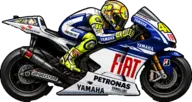
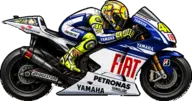
Footer: recut Stoner and Rossi, wheelies off for now
The old cut closed the mask with a 7px disk, which bridged the gaps
between tyres and bodywork into solid black blocks, and the floodfill
leaked into the wheels below the hub. The new cut thresholds the
brightest channel at 0.8% (the treads are pure black inside a lighter
outline), removes only the black connected to the edge, draws each wheel
disc opaque at its measured centre, and closes with a 2.5px disk, small
enough to smooth tyre edges without bridging anything real. The method
is in design/era-assets.md.

Wheelies are off at the owner's request until the 2009 wheelie art is
chosen.

diff --git a/src/era/RossiRide.tsx b/src/era/RossiRide.tsx
@@ -20,6 +20,9 @@ import "./rossi.css";
 const RIDE_W = 96;
 const WHEELIE_W = 92;
 const WHEELIE_SHIFT = 2;
+// Off while the owner picks the 2009 wheelie art; the sizing above is for the
+// current candidate and will need re-measuring against the one chosen.
+const WHEELIES = false;
 const SPEED = 190; // px per second
 // Wide enough that his tyres come out the size of Rossi's.
 const STONER_W = 106;
@@ -49,7 +52,7 @@ export default function RossiRide() {
     let phase = Math.random() * Math.PI * 2;
     const newPass = () => {
       const w = box.clientWidth;
-      const n = Math.random() < 0.5 ? 1 : 2;
+      const n = !WHEELIES ? 0 : Math.random() < 0.5 ? 1 : 2;
       plan = [];
       let from = w * 0.12;
       for (let i = 0; i < n; i++) {

diff --git a/src/era/cars.ts b/src/era/cars.ts
@@ -37,7 +37,7 @@ export const byId = (id: string) => cars.find((c) => c.id === id) ?? cars[0];
 // Rossi on the 2009 Fiat Yamaha M1, so he and Stoner's 2008 Ducati are from
 // the same seasons.
 export const rossi = {
-  ride: { src: "/era/rossi-bike.webp", ratio: 192 / 102 },
+  ride: { src: "/era/rossi-bike.webp", ratio: 192 / 101 },
   wheelie: { src: "/era/rossi-wheelie.webp", ratio: 184 / 115 },
 };
 

diff --git a/design/era-assets.md b/design/era-assets.md
@@ -27,9 +27,20 @@ car faces left.
 | `car-escort.webp` | 21 | |
 | `camera-sony-silver.webp` | 02 | |
 | `camera-sony-purple.webp` | 12 | |
-| `rossi-bike.webp` | 31 | `31_yamaha_rossi_2009.png`, the 2009 Fiat Yamaha, period-correct beside Stoner's 2008 Ducati; cut like 30 |
-| `rossi-wheelie.webp` | 32 | `32_yamaha_rossi_2009_wheelie.png`, same canvas as 31 but drawn a little smaller; cut like 30 |
-| `stoner-bike.webp` | 30 | `30_ducati_stoner_no1.png`, cut at 1.5% with holes filled (dilate 7, fill, erode 7): its tyres are near-black, so a corner floodfill ate into them |
+| `rossi-bike.webp` | 31 | `31_yamaha_rossi_2009.png`, the 2009 Fiat Yamaha, period-correct beside Stoner's 2008 Ducati. Cut as below |
+| `rossi-wheelie.webp` | 32 | `32_yamaha_rossi_2009_wheelie.png`, a candidate; wheelies are off while the owner picks the art |
+| `stoner-bike.webp` | 30 | `30_ducati_stoner_no1.png`. Cut as below |
+
+The two bikes are cut differently from the cars. Their tyre treads are pure
+black inside a lighter outline, and the background reaches between the tyres
+and the bodywork, so neither a floodfill nor hole-filling works on its own:
+a floodfill at 1-2% leaks through gaps in the outline into the tread, and
+closing the mask (dilate 7, erode 7) bridged the real gaps into black
+blocks. The cut that works: threshold the brightest channel at 0.8%, drop
+specks under 400px, remove only the black connected to the image edge, draw
+each wheel disc opaque (6px inside the tyre, at measured centres) because a
+wheel's black interior touches the gap behind it, then close with a 2.5px
+disk to smooth the tyre edges without bridging anything real.
 
 Not used: 01 (the four rally cars again, as one grid), 13 (Rossi on the later
 Monster Yamaha, replaced by 31 and 32), 33 (a steeper 2009 wheelie), 19 (the Razr), 20 (the
